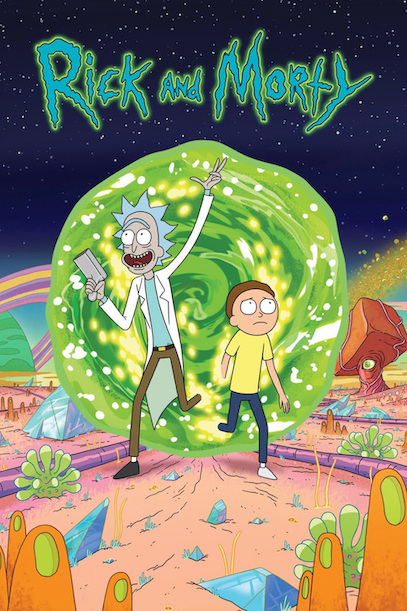
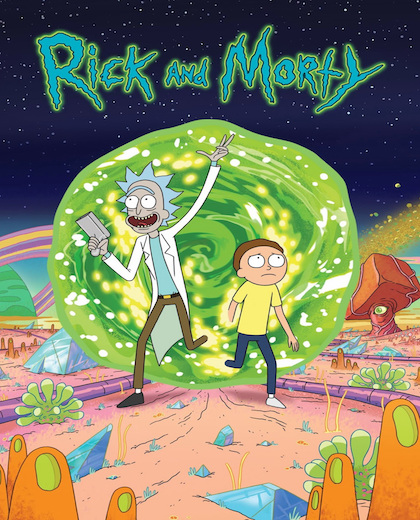
Refresh design

diff --git a/src/Card.js b/src/Card.js
@@ -1,8 +1,9 @@
 import React, { useState, useEffect } from 'react'
 import './Card.css'
 
-export default function Card({ name, status, id, species, image }) {
+export default function Card({ name, status, species, gender, image }) {
   const [isVisible, setIsVisble] = useState(true)
+
   return (
     <section className="Card">
       <h2>{name}</h2>
@@ -15,6 +16,7 @@ export default function Card({ name, status, id, species, image }) {
         <ul className="Card-list">
           <li>Status: {status}</li>
           <li>Species: {species}</li>
+          <li>Gender: {gender}</li>
         </ul>
       )}
     </section>

diff --git a/src/Header.js b/src/Header.js
@@ -1,10 +1,11 @@
 import React from 'react'
 import './Header.css'
+import image from './assets/rick-morty-header.jpg'
 
 export default function Header() {
   return (
     <section className="Header">
-      <h1>Welcome to our world</h1>
+      <img src={image} alt="" />
     </section>
   )
 }

diff --git a/src/App.js b/src/App.js
@@ -28,6 +28,7 @@ export default function App() {
             name={character.name}
             status={character.status}
             species={character.species}
+            gender={character.gender}
             image={character.image}
           />
         )

diff --git a/src/Header.css b/src/Header.css
@@ -1,10 +1,4 @@
-.Header {
-  background: hsla(224, 61%, 30%, 0.8);
-  color: cornsilk;
-  width: auto;
-  padding: 20px;
-}
-
-h1 {
-  margin: 0;
+.Header-image {
+  width: 407px;
+  height: auto;
 }

diff --git a/src/Card.css b/src/Card.css
@@ -9,6 +9,10 @@
   margin: 20px;
 }
 
+.Card--alien {
+  background: hsla(350, 12%, 40%, 0.9);
+}
+
 .Card-list {
   list-style-type: none;
   margin-top: 20px;
